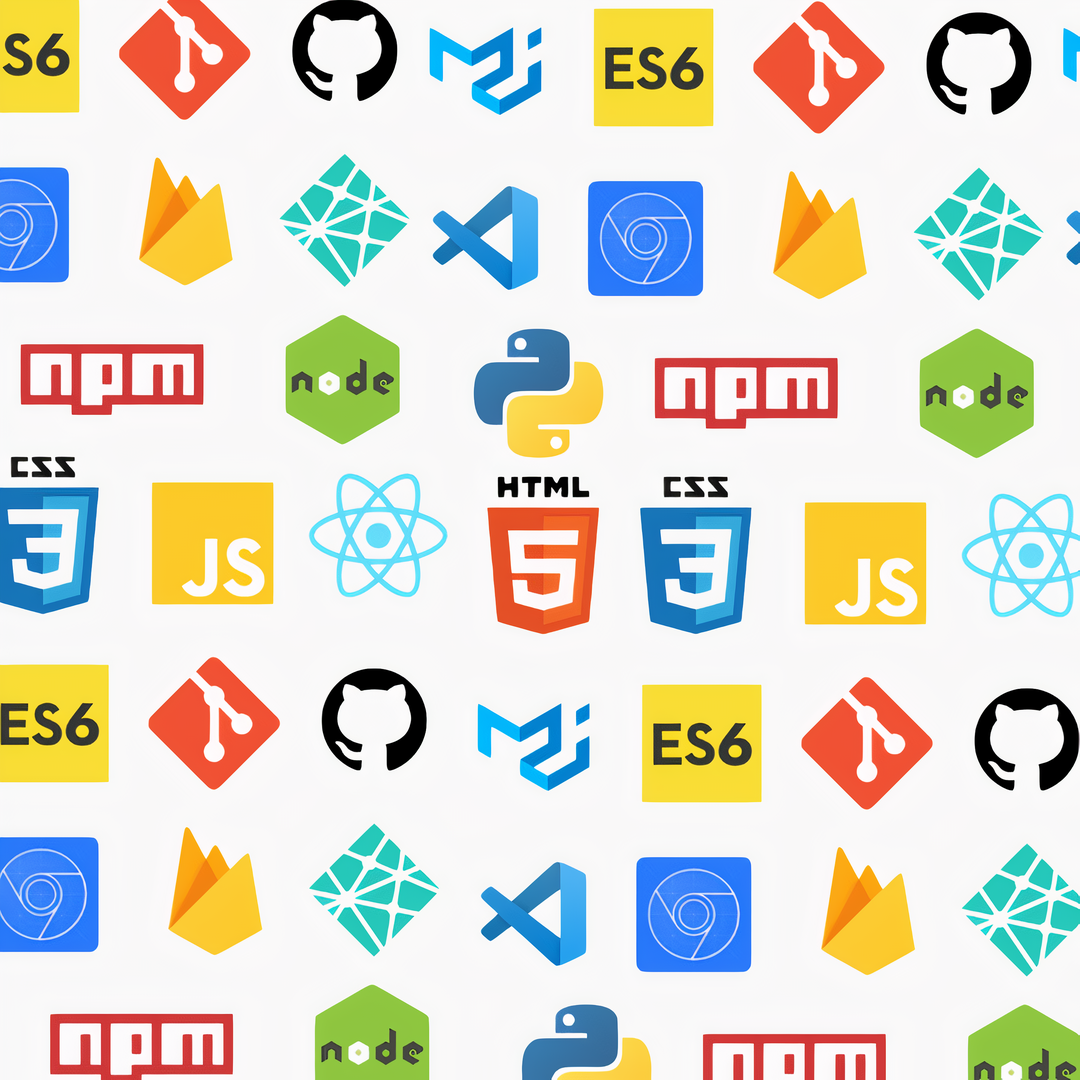
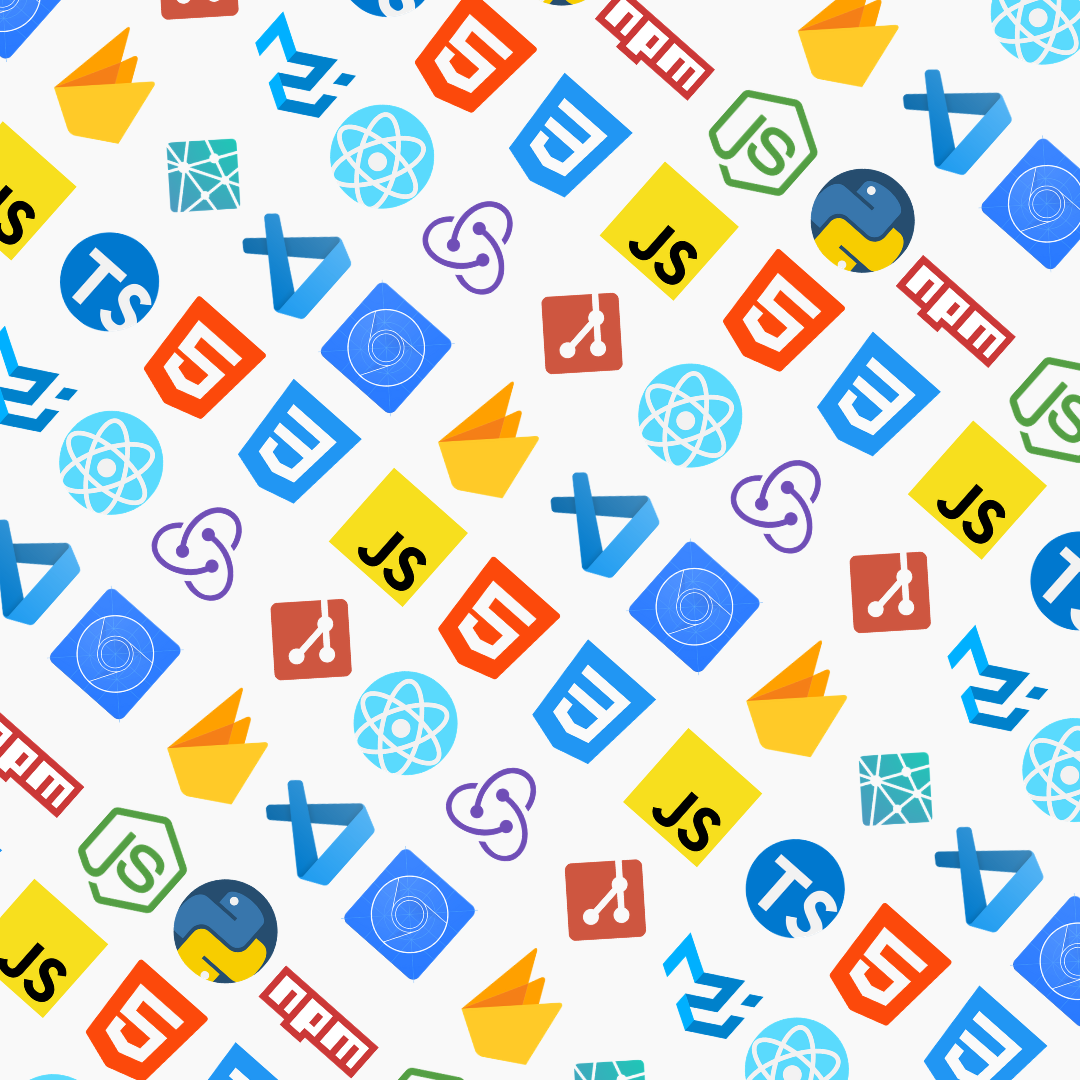
updated skills section

diff --git a/src/components/InfoSection/Data.js b/src/components/InfoSection/Data.js
@@ -37,11 +37,11 @@ export const homeOjectTwo = {
     lightText: false,
     lightTextDesc: false,
     topLine: 'Skills: Languagues and Frameworks',
-    firstHeadline: 'HTML / CSS / JS / REACTJS',
+    firstHeadline: 'HTML / CSS / JS / TS / REACTJS',
     firstParagraph: 'I’ve always preached the “fundamentals first” approach in the past and have stuck to the same principle for learning web development. I intend to really understand the building blocks upon which the modern internet is built. ',
     secondHeadline: 'Other Tools',
     secondParagraph: `
-        Git / VS Code / NodeJS / Firebase / Material UI / Netlify
+        Git / VS Code / NodeJS / Redux / Firebase / ChartJS / Material UI
     `,
     thirdParagraph: `
     I am always trying out new things. Hence, I've come across a bunch of the other tools and technologies throughout my learning experience.
@@ -49,7 +49,7 @@ export const homeOjectTwo = {
     buttonLabel: 'See Projects',
     imgStart: false,
     img: frontEndStack,
-    alt: 'Tech Stack',
+    alt: 'Front end technologies',
     scrollTo: 'projects',
     dark: false,
     primary: false,
